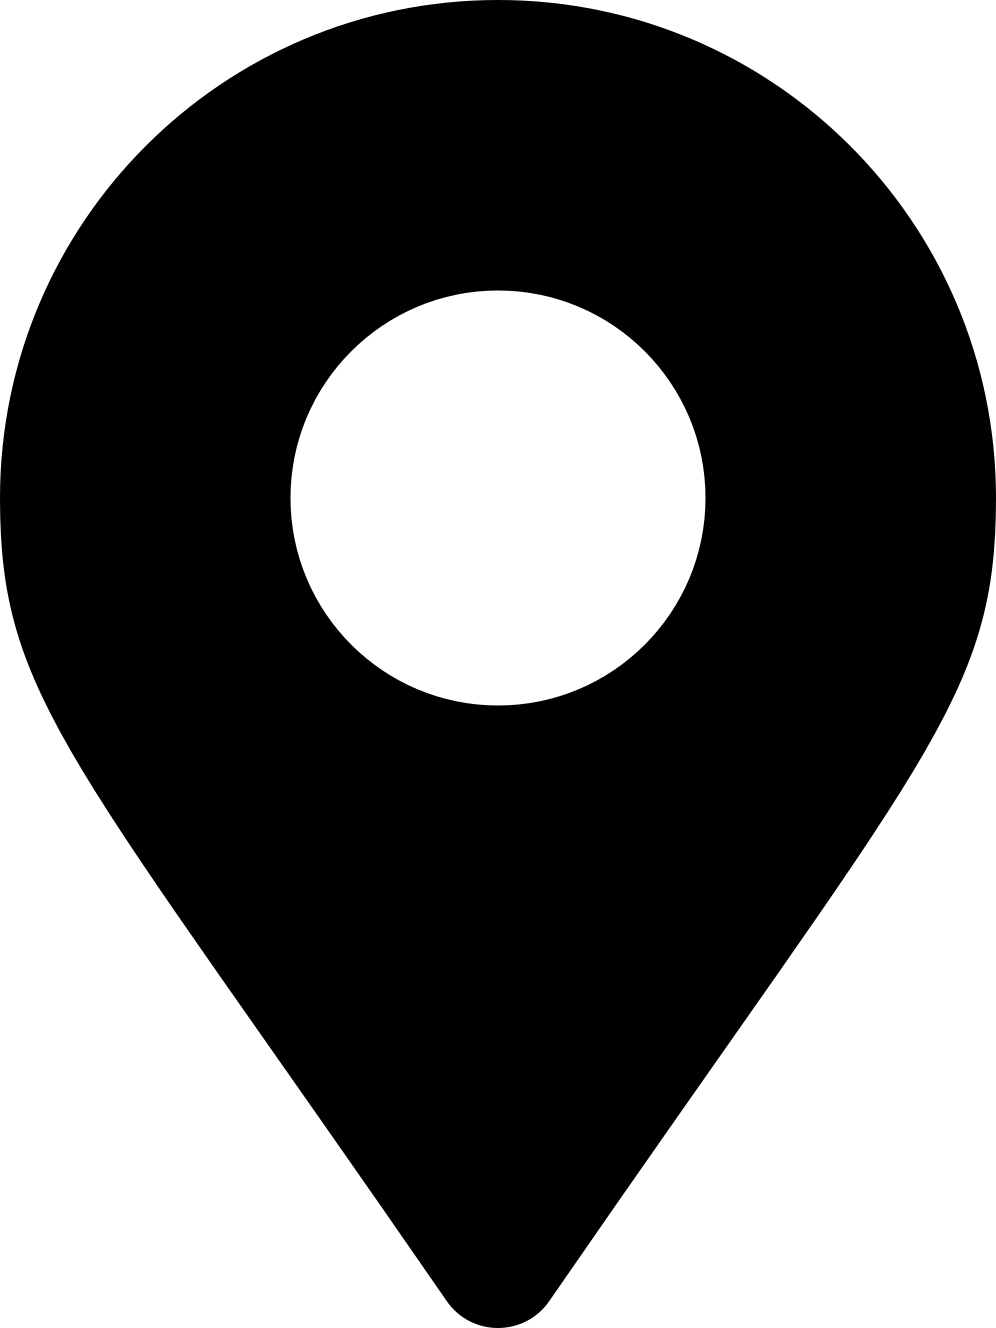
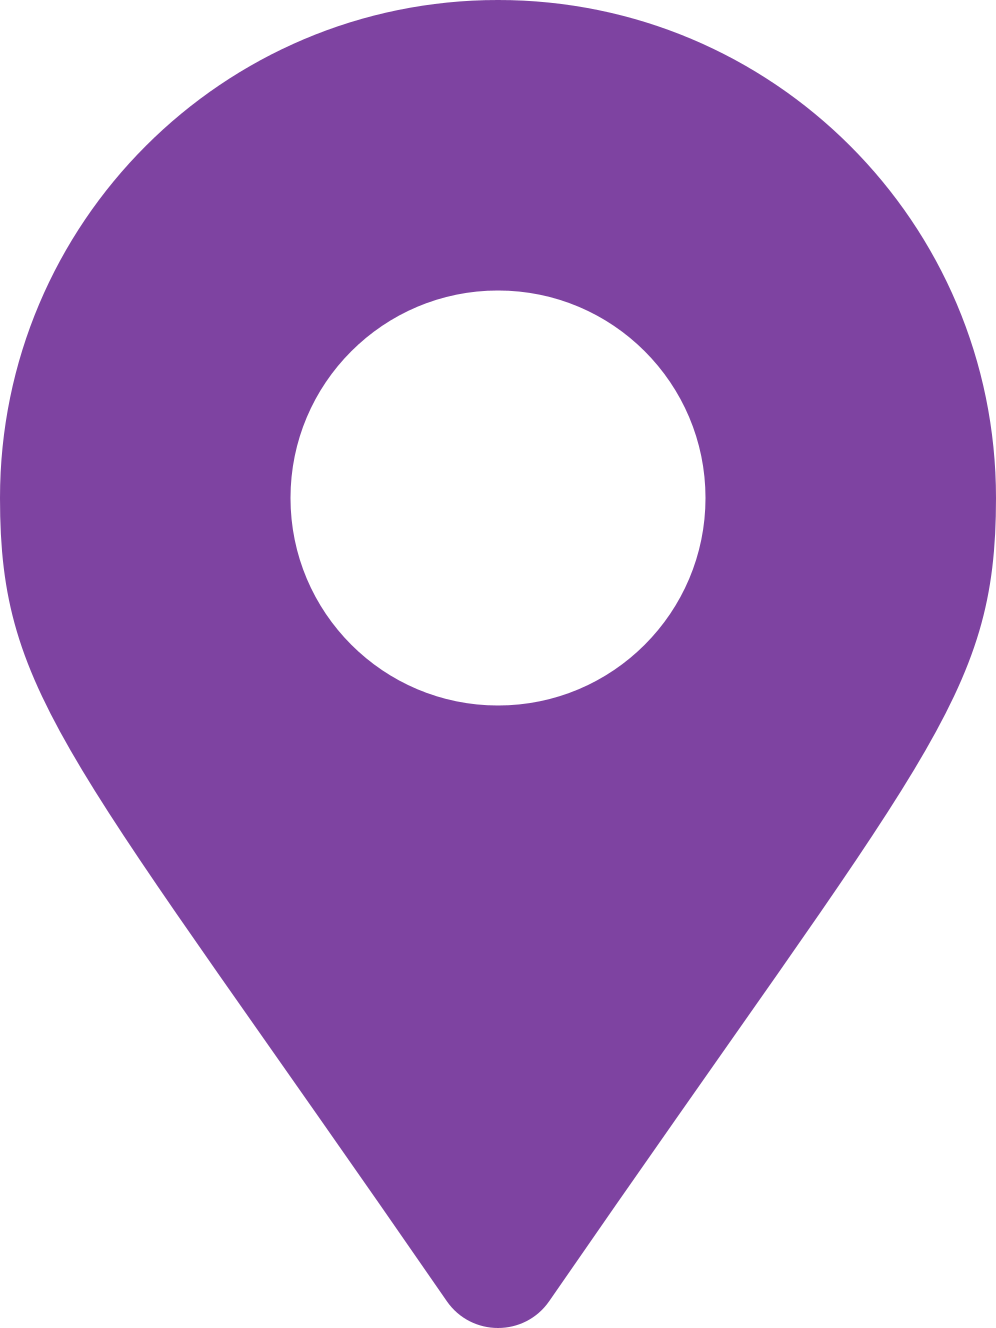
Created contact form

diff --git a/index.html b/index.html
@@ -84,8 +84,8 @@
         </div>
       </div>
     </div>
-    <div id="offer" class="section-space">
-      <div class="container">
+    <div id="offer">
+      <div class="container section-space">
         <h1 class="title font-fjallaone text-center p-3 w-50 mx-auto mb-5">OFERTA</h1>
         <div class="row justify-content-center">
           <div class="col-md-6 col-lg-4 text-center">
@@ -134,8 +134,8 @@
         </div>
       </div>
     </div>
-    <div id="certificates" class="section-space">
-      <div class="container">
+    <div id="certificates">
+      <div class="container section-space">
         <h1 class="title font-fjallaone text-center p-3 w-50 mx-auto mb-5">CERTYFIKATY</h1>
         <div id="carousel-container">
             <div class="certificate-container justify-content-center align-items-center">
@@ -156,6 +156,50 @@
           <h3 id="certificates-counter" class="text-center"></h3>
           <button id="btn-right" class="btn-arrow"><img src="images/arrow.png" alt="Arrow" style="transform: scaleX(-1);"></button>
         </div>   
+      </div>
+    </div>
+    <div id="contact">
+      <div class="container section-space">
+        <h1 class="title font-fjallaone text-center p-3 w-50 mx-auto mb-5">KONTAKT</h1>
+        <div class="row no-gutters">
+          <div class="col-lg-8 map-container justify-content-between">
+            <div class="row no-gutters">
+              <address class="d-inline-block m-3 p-3 font-roboto">
+                <div class="d-flex align-items-center">
+                  <img src="images/marker.png" class="contact-icon mr-3" alt="Envelope icon">
+                  <p class="p-1 m-0"><a href="http://maps.google.com/?q=ul. Gen. K. Sosnkowskiego 1c/11 80-041 Gdańsk" target="_blank">ul. Gen. K. Sosnkowskiego 1c/11 80-041 Gdańsk</a></p>
+                </div>
+                <div class="d-flex align-items-center">
+                  <img src="images/phone.png" class="contact-icon mr-3" alt="Envelope icon">
+                  <div>
+                    <p class="p-1 m-0"><a href="tel:+48697738963">tel. 697 738 963</a></p>
+                    <p class="p-1 m-0"><a href="tel:587350155">tel./fax: 58 735 01 55</a></p>
+                  </div>
+                </div>
+                <div class="d-flex align-items-center">
+                  <img src="images/envelope.png" class="contact-icon mr-3" alt="Envelope icon">
+                  <p class="p-1 m-0"><a href="mailto:biurodefacto.pl@gmail.com">biurodefacto.pl@gmail.com</a></p>
+                </div>
+              </address>
+            </div>
+            <div class="row no-gutters">
+              <div id="opening-hours" class="d-inline-block m-3 p-3 font-roboto">
+                <div class="d-flex align-items-center">
+                  <img src="images/clock.png" class="contact-icon mr-3" alt="Envelope icon">
+                  <p class="p-1 m-0">Godziny otwarcia: Pon - Pt <time>8:00</time> - <time>16:00</time></p>
+                </div>
+              </div>
+            </div>
+          </div>
+          <div id="form-container" class="col-lg-4 p-4">
+            <form id="contact-form">  
+              <input type="text" name="name" id="tName" class="p-3 font-roboto" placeholder="Imię i nazwisko">
+              <input type="email" name="email" id="eEmail" class="p-3 my-3 font-roboto" placeholder="E-mail">
+              <textarea name="message" id="taMessage" class="p-3 font-roboto mb-3" rows="10" placeholder="Wiadomość"></textarea>
+              <button type="submit" id="btnSend" class="p-2 font-roboto">WYŚLIJ</button>
+            </form>
+          </div>
+        </div>
       </div>
     </div>
     <script src="https://ajax.googleapis.com/ajax/libs/jquery/1.11.0/jquery.min.js"></script>

diff --git a/styles/main.css b/styles/main.css
@@ -4,6 +4,7 @@
 @import url('https://fonts.googleapis.com/css2?family=Teko:wght@700&display=swap');
 @import url('https://fonts.googleapis.com/css2?family=Assistant&display=swap');
 @import url('https://fonts.googleapis.com/css2?family=Fjalla+One&display=swap');
+@import url('https://fonts.googleapis.com/css2?family=Roboto:wght@300&display=swap');
 
 
 .font-lexend-deca{
@@ -20,6 +21,10 @@
 
 .font-fjallaone{
 	font-family: 'Fjalla One';
+}
+
+.font-roboto{
+	font-family: 'Roboto';
 }
 
 /* General settings */
@@ -249,8 +254,9 @@ body{
 
 .certificate{
 	height: auto;
-	width: 95%;
+	width: 90%;
 	margin: auto;
+	box-shadow: 0px 2px 15px rgba(67, 48, 77, 0.6);
 }
 #certificates-counter{
 	width: 60px;
@@ -287,6 +293,75 @@ body{
 	transform: scale(1.05);
 }
 
+/* Contact */
+
+.map-container{
+	background-image: url('../images/map.png');
+	background-position: center;
+	background-size: cover;
+	background-repeat: no-repeat;
+	min-height: 600px;
+}
+
+address{
+	background-color: rgba(255, 255, 255, 0.6);
+	font-size: 16px;
+}
+
+address a, address a:visited{
+	color: #000;
+}
+
+address a:hover{
+	color: #7e43a1;
+}
+
+#opening-hours{
+	background-color: rgba(255, 255, 255, 0.6);
+	font-size: 16px;
+}
+
+.contact-icon{
+	width: 25px;
+	height: auto;
+}
+
+#form-container{
+	background-color: #7e43a1;
+}
+
+#contact-form input{
+	width: 100%;
+	background-color: #f1e8f6;
+	border: none;
+	font-size: 20px;
+	border-radius: 10px;
+}
+
+#contact-form textarea{
+	width: 100%;
+	background-color: #f1e8f6;
+	border: none;
+	font-size: 20px;
+	border-radius: 10px;
+}
+
+#contact-form button{
+	width: 100%;
+	background-color: #7e43a1;
+	color: #fff;
+	font-size: 20px;
+	border: 5px solid #fff;
+	border-radius: 10px;
+	font-weight: bold;
+}
+
+#contact-form *::placeholder{
+	color: #ccbfd3;
+}
+
+
+
 /* RWD */
 
 @media only screen and (max-width: 992px){
@@ -294,7 +369,7 @@ body{
 		width: 100%;
 	}
 	.certificate{
-		height: 100%;
+		height: 95%;
 		width: auto;
 	}
 	.scale-0{
@@ -316,3 +391,4 @@ body{
 		text-align: center;
 	}
 }
+
